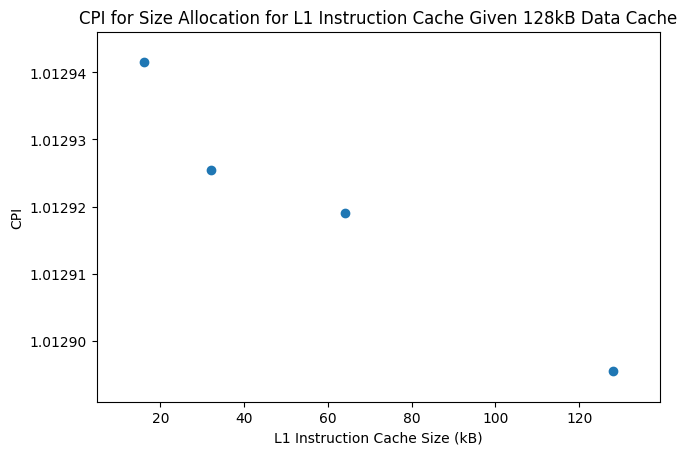
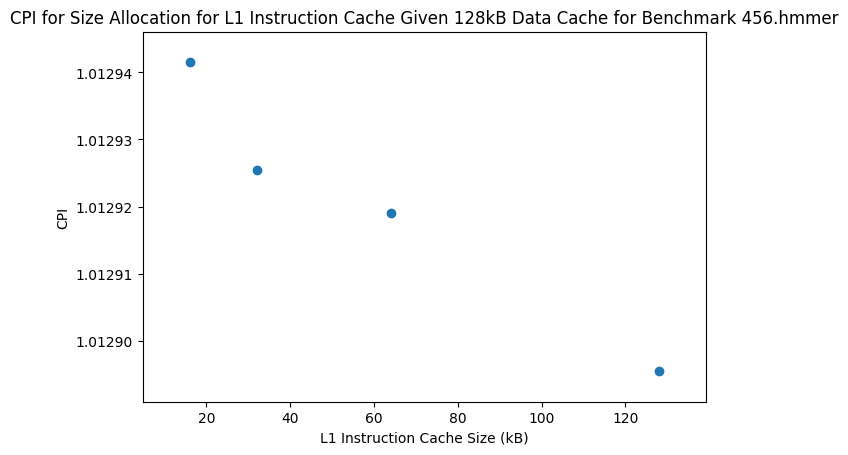
Added preliminary optimization function

diff --git a/Project 1/scripts/CPI_graph.py b/Project 1/scripts/CPI_graph.py
@@ -217,58 +217,58 @@ def generateGraphs(cpidata):
                     b470AllocDX.append(cpi.l1d_size)
 
     # Set Same
-    setSameTitle = "CPI for Set Associativity of both L1 Data and Instruction Caches"
+    setSameTitle = "CPI for Set Associativity of both L1 Data and Instruction Caches for Benchmark "
     setSameXAxis = "Set Associativity for L1 Data and Instruction Caches"
-    plot(b401SetSameX, b401SetSame, setSameTitle, setSameXAxis, "../graphs/401/401SameSetAlloc.png")
-    plot(b429SetSameX, b429SetSame, setSameTitle, setSameXAxis, "../graphs/429/429SameSetAlloc.png")
-    plot(b456SetSameX, b456SetSame, setSameTitle, setSameXAxis, "../graphs/456/456SameSetAlloc.png")
-    plot(b458SetSameX, b458SetSame, setSameTitle, setSameXAxis, "../graphs/458/458SameSetAlloc.png")
-    plot(b470SetSameX, b470SetSame, setSameTitle, setSameXAxis, "../graphs/470/470SameSetAlloc.png")
+    plot(b401SetSameX, b401SetSame, setSameTitle+"401.bzip2", setSameXAxis, "../graphs/401/401SameSetAlloc.png")
+    plot(b429SetSameX, b429SetSame, setSameTitle+"429.mcf", setSameXAxis, "../graphs/429/429SameSetAlloc.png")
+    plot(b456SetSameX, b456SetSame, setSameTitle+"456.hmmer", setSameXAxis, "../graphs/456/456SameSetAlloc.png")
+    plot(b458SetSameX, b458SetSame, setSameTitle+"458.sjeng", setSameXAxis, "../graphs/458/458SameSetAlloc.png")
+    plot(b470SetSameX, b470SetSame, setSameTitle+"470.lbm", setSameXAxis, "../graphs/470/470SameSetAlloc.png")
 
     # SetD
-    setDTitle = "CPI for Set Associativity of L1 Data Cache"
+    setDTitle = "CPI for Set Associativity of L1 Data Cache for Benchmark "
     setDXAxis = "Set Associativity for L1 Data Cache"
-    plot(b470SetDX, b470SetD, setDTitle, setDXAxis, "../graphs/470/470DataSetAlloc.png")
-    plot(b458SetDX, b458SetD, setDTitle, setDXAxis, "../graphs/458/458DataSetAlloc.png")
-    plot(b456SetDX, b456SetD, setDTitle, setDXAxis, "../graphs/456/456DataSetAlloc.png")
-    plot(b429SetDX, b429SetD, setDTitle, setDXAxis, "../graphs/429/429DataSetAlloc.png")
-    plot(b401SetDX, b401SetD, setDTitle, setDXAxis, "../graphs/401/401DataSetAlloc.png")
+    plot(b470SetDX, b470SetD, setDTitle+"470.lbm", setDXAxis, "../graphs/470/470DataSetAlloc.png")
+    plot(b458SetDX, b458SetD, setDTitle+"458.sjeng", setDXAxis, "../graphs/458/458DataSetAlloc.png")
+    plot(b456SetDX, b456SetD, setDTitle+"456.hmmer", setDXAxis, "../graphs/456/456DataSetAlloc.png")
+    plot(b429SetDX, b429SetD, setDTitle+"429.mcf", setDXAxis, "../graphs/429/429DataSetAlloc.png")
+    plot(b401SetDX, b401SetD, setDTitle+"401.bzip2", setDXAxis, "../graphs/401/401DataSetAlloc.png")
 
     # SetI
-    setITitle = "CPI for Set Associativity of L1 Instruction Cache"
+    setITitle = "CPI for Set Associativity of L1 Instruction Cache for Benchmark "
     setIXAxis = "Set Associativity for L1 Instruction Cache"
-    plot(b470SetIX, b470SetI, setITitle, setIXAxis, "../graphs/470/470InstructionSetAlloc.png")
-    plot(b458SetIX, b458SetI, setITitle, setIXAxis, "../graphs/458/458InstructionSetAlloc.png")
-    plot(b456SetIX, b456SetI, setITitle, setIXAxis, "../graphs/456/456InstructionSetAlloc.png")
-    plot(b429SetIX, b429SetI, setITitle, setIXAxis, "../graphs/429/429InstructionSetAlloc.png")
-    plot(b401SetIX, b401SetI, setITitle, setIXAxis, "../graphs/401/401InstructionSetAlloc.png")
+    plot(b470SetIX, b470SetI, setITitle+"470.lbm", setIXAxis, "../graphs/470/470InstructionSetAlloc.png")
+    plot(b458SetIX, b458SetI, setITitle+"458.sjeng", setIXAxis, "../graphs/458/458InstructionSetAlloc.png")
+    plot(b456SetIX, b456SetI, setITitle+"456.hmmer", setIXAxis, "../graphs/456/456InstructionSetAlloc.png")
+    plot(b429SetIX, b429SetI, setITitle+"429.mcf", setIXAxis, "../graphs/429/429InstructionSetAlloc.png")
+    plot(b401SetIX, b401SetI, setITitle+"401.bzip2", setIXAxis, "../graphs/401/401InstructionSetAlloc.png")
 
     # Block Size
-    setBlockTitle = "CPI for Block Size of both L1 Caches"
+    setBlockTitle = "CPI for Block Size of both L1 Caches for Benchmark "
     setBlockXAxis = "Cache Block Size"
-    plot(b401BlockX, b401Block, setBlockTitle, setBlockXAxis, "../graphs/401/401BlockSize.png")
-    plot(b429BlockX, b429Block, setBlockTitle, setBlockXAxis, "../graphs/429/429BlockSize.png")
-    plot(b456BlockX, b456Block, setBlockTitle, setBlockXAxis, "../graphs/456/456BlockSize.png")
-    plot(b458BlockX, b458Block, setBlockTitle, setBlockXAxis, "../graphs/458/458BlockSize.png")
-    plot(b470BlockX, b470Block, setBlockTitle, setBlockXAxis, "../graphs/470/470BlockSize.png")
+    plot(b401BlockX, b401Block, setBlockTitle+"401.bzip2", setBlockXAxis, "../graphs/401/401BlockSize.png")
+    plot(b429BlockX, b429Block, setBlockTitle+"429.mcf", setBlockXAxis, "../graphs/429/429BlockSize.png")
+    plot(b456BlockX, b456Block, setBlockTitle+"456.hmmer", setBlockXAxis, "../graphs/456/456BlockSize.png")
+    plot(b458BlockX, b458Block, setBlockTitle+"458.sjeng", setBlockXAxis, "../graphs/458/458BlockSize.png")
+    plot(b470BlockX, b470Block, setBlockTitle+"470.lbm", setBlockXAxis, "../graphs/470/470BlockSize.png")
 
     # Size Allocation Data
-    setSizeDataTitle = "CPI for Size Allocation for L1 Data Cache Given 128kB Instruction Cache"
+    setSizeDataTitle = "CPI for Size Allocation for L1 Data Cache Given 128kB Instruction Cache for Benchmark "
     setSizeDataXAxis = "L1 Data Cache Size (kB)"
-    plot(b470AllocDX, b470AllocD, setSizeDataTitle, setSizeDataXAxis, "../graphs/470/470DataSizeAllocation.png")
-    plot(b458AllocDX, b458AllocD, setSizeDataTitle, setSizeDataXAxis, "../graphs/458/458DataSizeAllocation.png")
-    plot(b456AllocDX, b456AllocD, setSizeDataTitle, setSizeDataXAxis, "../graphs/456/456DataSizeAllocation.png")
-    plot(b429AllocDX, b429AllocD, setSizeDataTitle, setSizeDataXAxis, "../graphs/429/429DataSizeAllocation.png")
-    plot(b401AllocDX, b401AllocD, setSizeDataTitle, setSizeDataXAxis, "../graphs/401/401DataSizeAllocation.png")
+    plot(b470AllocDX, b470AllocD, setSizeDataTitle+"470.lbm", setSizeDataXAxis, "../graphs/470/470DataSizeAllocation.png")
+    plot(b458AllocDX, b458AllocD, setSizeDataTitle+"458.sjeng", setSizeDataXAxis, "../graphs/458/458DataSizeAllocation.png")
+    plot(b456AllocDX, b456AllocD, setSizeDataTitle+"456.hmmer", setSizeDataXAxis, "../graphs/456/456DataSizeAllocation.png")
+    plot(b429AllocDX, b429AllocD, setSizeDataTitle+"429.mcf", setSizeDataXAxis, "../graphs/429/429DataSizeAllocation.png")
+    plot(b401AllocDX, b401AllocD, setSizeDataTitle+"401.bzip2", setSizeDataXAxis, "../graphs/401/401DataSizeAllocation.png")
 
     # Size Allocation Instruction
-    setSizeInstructionTitle = "CPI for Size Allocation for L1 Instruction Cache Given 128kB Data Cache"
+    setSizeInstructionTitle = "CPI for Size Allocation for L1 Instruction Cache Given 128kB Data Cache for Benchmark "
     setSizeInstructionXAxis = "L1 Instruction Cache Size (kB)"
-    plot(b470AllocIX, b470AllocI, setSizeInstructionTitle, setSizeInstructionXAxis, "../graphs/470/470InstructionSizeAllocation.png")
-    plot(b458AllocIX, b458AllocI, setSizeInstructionTitle, setSizeInstructionXAxis, "../graphs/458/458InstructionSizeAllocation.png")
-    plot(b456AllocIX, b456AllocI, setSizeInstructionTitle, setSizeInstructionXAxis, "../graphs/456/456InstructionSizeAllocation.png")
-    plot(b429AllocIX, b429AllocI, setSizeInstructionTitle, setSizeInstructionXAxis, "../graphs/429/429InstructionSizeAllocation.png")
-    plot(b401AllocIX, b401AllocI, setSizeInstructionTitle, setSizeInstructionXAxis, "../graphs/401/401InstructionSizeAllocation.png")
+    plot(b470AllocIX, b470AllocI, setSizeInstructionTitle+"470.lbm", setSizeInstructionXAxis, "../graphs/470/470InstructionSizeAllocation.png")
+    plot(b458AllocIX, b458AllocI, setSizeInstructionTitle+"458.sjeng", setSizeInstructionXAxis, "../graphs/458/458InstructionSizeAllocation.png")
+    plot(b456AllocIX, b456AllocI, setSizeInstructionTitle+"456.hmmer", setSizeInstructionXAxis, "../graphs/456/456InstructionSizeAllocation.png")
+    plot(b429AllocIX, b429AllocI, setSizeInstructionTitle+"429.mcf", setSizeInstructionXAxis, "../graphs/429/429InstructionSizeAllocation.png")
+    plot(b401AllocIX, b401AllocI, setSizeInstructionTitle+"401.bzip2", setSizeInstructionXAxis, "../graphs/401/401InstructionSizeAllocation.png")
 
 
 

diff --git a/Project 1/scripts/optimizeCPICost.py b/Project 1/scripts/optimizeCPICost.py
@@ -1,0 +1,99 @@
+import subprocess
+import shlex
+import cpi
+import CPI_Read_In
+import csv
+
+def cost(cpi):
+    return 1
+
+def evaluate(list):
+    minimum = 10000000000
+    best = ""
+    for i in list:
+        tot = i.cpi * i.cost
+        if tot < minimum:
+            minimum = tot
+            best = i
+    return best
+
+def optimize(projectlocation):
+    #l1d_assoc=0, l1i_assoc=0, l2_assoc=0, size=0, l1d_size=0, l1i_size=0
+    l1d_assoc_options = ["1","2","4","8","16"]
+    l1i_assoc_options = ["1","2","4","8","16"]
+    size_options = ["8", "16", "32", "64"]
+    l1d_size_options = ["16kB", "32kB", "64kB", "128kB"]
+    l1i_size_options = ["16kB", "32kB", "64kB", "128kB"]
+    benchmark_data_options = [["401.bzip2","./data/input.program"],
+                              ["429.mcf","./data/inp.in"],
+                              ["456.hmmer", "./data/bombesin.hmm.new"],
+                              ["458.sjeng", "./data/test.txt"],
+                              ["470.lbm", "./data/lbm.in"]]
+    min401 = []
+    min429 = []
+    min456 = []
+    min458 = []
+    min470 = []
+    for benchmark in benchmark_data_options:
+        for l1d_assoc in l1d_assoc_options:
+            for l1i_assoc in l1i_assoc_options:
+                for size in size_options:
+                    for l1d_size in l1d_size_options:
+                        for l1i_size in l1i_size_options:
+                            commandtext = "/usr/local/gem5/build/X86/gem5.opt " \
+                                          "-d ~/m5out /usr/local/gem5/configs/example/se.py " \
+                                          "-I 100000000 " \
+                                          "-c ./src/benchmark " \
+                                          "-o " + benchmark[1] +" " \
+                                          "--cpu-type=atomic " \
+                                          "--caches --l2cache " \
+                                          "--l1d_size=" + l1d_size + " " \
+                                          "--l1i_size=" + l1i_size + " " \
+                                          "--l2_size=1MB " \
+                                          "--l1d_assoc=" + l1d_assoc + " " \
+                                          "--l1i_assoc=" + l1i_assoc + " " \
+                                          "--l2_assoc=1 " \
+                                          "--cacheline_size=" + size
+                            location = projectlocation + "/" + benchmark[0]
+                            #command = shlex.split(commandtext)
+                            subprocess.Popen(commandtext,cwd=location)
+                            cpival = cpi.calculatecpisingle("~/m5out/stats.txt")
+                            costval = cost(cpival)
+                            if benchmark[0] == "401.bzip2":
+                                min401.append(CPI_Read_In.CPIData(benchmark[0], "NA", cpival,
+                                                                  l1d_assoc=l1d_assoc, l1i_assoc=l1i_assoc, l2_assoc="1MB",
+                                                                  size=size, l1d_size=l1d_size, l1i_size=l1i_size, cost=costval))
+                            elif benchmark[0] == "429.mcf":
+                                min429.append(CPI_Read_In.CPIData(benchmark[0], "NA", cpival,
+                                                                  l1d_assoc=l1d_assoc, l1i_assoc=l1i_assoc, l2_assoc="1MB",
+                                                                  size=size, l1d_size=l1d_size, l1i_size=l1i_size, cost=costval))
+                            elif benchmark[0] == "456.hmmer":
+                                min456.append(CPI_Read_In.CPIData(benchmark[0], "NA", cpival,
+                                                                  l1d_assoc=l1d_assoc, l1i_assoc=l1i_assoc, l2_assoc="1MB",
+                                                                  size=size, l1d_size=l1d_size, l1i_size=l1i_size, cost=costval))
+                            elif benchmark[0] == "458.sjeng":
+                                min458.append(CPI_Read_In.CPIData(benchmark[0], "NA", cpival,
+                                                                  l1d_assoc=l1d_assoc, l1i_assoc=l1i_assoc, l2_assoc="1MB",
+                                                                  size=size, l1d_size=l1d_size, l1i_size=l1i_size, cost=costval))
+                            elif benchmark[0] == "470.lbm":
+                                min470.append(CPI_Read_In.CPIData(benchmark[0], "NA", cpival,
+                                                                  l1d_assoc=l1d_assoc, l1i_assoc=l1i_assoc, l2_assoc="1MB",
+                                                                  size=size, l1d_size=l1d_size, l1i_size=l1i_size, cost=costval))
+    with open('../data/optimization.csv', 'w', newline='') as file:
+        writer = csv.writer(file)
+        writer.writerow(["Benchmark", "Experiment", "CPI", "Data Associativity", "Instruction Associativity",
+                "L2 Associativity", "Block Size", "Data Size", "Instruction Size", "Cost"])
+        best = evaluate(min401)
+        writer.writerow(best.toArray())
+        best = evaluate(min429)
+        writer.writerow(best.toArray())
+        best = evaluate(min456)
+        writer.writerow(best.toArray())
+        best = evaluate(min458)
+        writer.writerow(best.toArray())
+        best = evaluate(min470)
+        writer.writerow(best.toArray())
+
+
+
+optimize("~/Project1_SPEC")

diff --git a/Project 1/scripts/cpi.py b/Project 1/scripts/cpi.py
@@ -1,52 +1,78 @@
 import os
 import csv
-data_directories = ["401Data", "429Data", "456Data", "458Data", "470Data"]
+def calculatecpimass():
+    data_directories = ["401Data", "429Data", "456Data", "458Data", "470Data"]
 
-# Fields of interest in data files
-DL1_MISS_NUM_SRT  = "system.cpu.dcache.overall_miss_rate::total"
-IL1_MISS_NUM_SRT = "system.cpu.icache.overall_miss_rate::total"
-L2_MISS_NUM_SRT = "system.l2.overall_misses::total"
-TOTAL_NUM_INST_SRT = "sim_insts"
+    # Fields of interest in data files
+    DL1_MISS_NUM_SRT  = "system.cpu.dcache.overall_miss_rate::total"
+    IL1_MISS_NUM_SRT = "system.cpu.icache.overall_miss_rate::total"
+    L2_MISS_NUM_SRT = "system.l2.overall_misses::total"
+    TOTAL_NUM_INST_SRT = "sim_insts"
 
-data_list = [["Directory", "File", "CPI"]]
-row_data = []
+    data_list = [["Directory", "File", "CPI"]]
+    row_data = []
 
-for dir in data_directories:
-    print("Start of" , dir)
-    dir_path = "../" + dir
-    print(dir_path)
-    dir_data_files = os.listdir(dir_path)
-    for data_file in dir_data_files:
-        print("Data for file" , data_file, "in directory", dir)
-        data_file_path = dir_path + '/' + data_file
-        with open(data_file_path, 'r') as file:        
-            data = file.read().splitlines()
-            for row in data:
-                if (len(row) == 0):
-                    continue          
-                sim_stats = row.split(maxsplit=2)
-                if(sim_stats[0] == IL1_MISS_NUM_SRT):
-                    print("IL1.miss_num:", sim_stats[1])
-                    il1_miss_num = float(sim_stats[1])
-                if(sim_stats[0] == DL1_MISS_NUM_SRT):
-                    print("DL1.miss_num:", sim_stats[1])
-                    dl1_numm_num = float(sim_stats[1])
-                if(sim_stats[0] == L2_MISS_NUM_SRT):
-                    print("L2.miss_num:", sim_stats[1])
-                    l2_miss_num = float(sim_stats[1])
-                if(sim_stats[0] == TOTAL_NUM_INST_SRT):
-                    print("Total_Inst_num:", sim_stats[1])
-                    total_num_inst = float(sim_stats[1])
-        cpi = 1 + ((il1_miss_num + dl1_numm_num) * 6 + l2_miss_num * 50) / total_num_inst
-        print("CPI:", cpi)
-        row_data.append(dir)
-        row_data.append(data_file)
-        row_data.append(cpi)
-        data_list.append(row_data)
-        row_data = []
-        print("\n")
-        
-with open('../data/cpi.csv', 'w', newline='') as file:
-    writer = csv.writer(file)
-    for list in data_list:
-        writer.writerow(list)
+    for dir in data_directories:
+        print("Start of" , dir)
+        dir_path = "../" + dir
+        print(dir_path)
+        dir_data_files = os.listdir(dir_path)
+        for data_file in dir_data_files:
+            print("Data for file" , data_file, "in directory", dir)
+            data_file_path = dir_path + '/' + data_file
+            with open(data_file_path, 'r') as file:
+                data = file.read().splitlines()
+                for row in data:
+                    if (len(row) == 0):
+                        continue
+                    sim_stats = row.split(maxsplit=2)
+                    if(sim_stats[0] == IL1_MISS_NUM_SRT):
+                        print("IL1.miss_num:", sim_stats[1])
+                        il1_miss_num = float(sim_stats[1])
+                    if(sim_stats[0] == DL1_MISS_NUM_SRT):
+                        print("DL1.miss_num:", sim_stats[1])
+                        dl1_numm_num = float(sim_stats[1])
+                    if(sim_stats[0] == L2_MISS_NUM_SRT):
+                        print("L2.miss_num:", sim_stats[1])
+                        l2_miss_num = float(sim_stats[1])
+                    if(sim_stats[0] == TOTAL_NUM_INST_SRT):
+                        print("Total_Inst_num:", sim_stats[1])
+                        total_num_inst = float(sim_stats[1])
+            cpi = 1 + ((il1_miss_num + dl1_numm_num) * 6 + l2_miss_num * 50) / total_num_inst
+            print("CPI:", cpi)
+            row_data.append(dir)
+            row_data.append(data_file)
+            row_data.append(cpi)
+            data_list.append(row_data)
+            row_data = []
+            print("\n")
+
+    with open('../data/cpi.csv', 'w', newline='') as file:
+        writer = csv.writer(file)
+        for list in data_list:
+            writer.writerow(list)
+    return data_list
+
+def calculatecpisingle(filename):
+    # Fields of interest in data files
+    DL1_MISS_NUM_SRT = "system.cpu.dcache.overall_miss_rate::total"
+    IL1_MISS_NUM_SRT = "system.cpu.icache.overall_miss_rate::total"
+    L2_MISS_NUM_SRT = "system.l2.overall_misses::total"
+    TOTAL_NUM_INST_SRT = "sim_insts"
+
+    with open(filename, 'r') as file:
+        data = file.read().splitlines()
+        for row in data:
+            if (len(row) == 0):
+                continue
+            sim_stats = row.split(maxsplit=2)
+            if (sim_stats[0] == IL1_MISS_NUM_SRT):
+                il1_miss_num = float(sim_stats[1])
+            if (sim_stats[0] == DL1_MISS_NUM_SRT):
+                dl1_numm_num = float(sim_stats[1])
+            if (sim_stats[0] == L2_MISS_NUM_SRT):
+                l2_miss_num = float(sim_stats[1])
+            if (sim_stats[0] == TOTAL_NUM_INST_SRT):
+                total_num_inst = float(sim_stats[1])
+    cpi = 1 + ((il1_miss_num + dl1_numm_num) * 6 + l2_miss_num * 50) / total_num_inst
+    return cpi

diff --git a/Project 1/scripts/CPI_Read_In.py b/Project 1/scripts/CPI_Read_In.py
@@ -6,7 +6,7 @@ Copyright and Licensing: GNU @ Alexis Tudor
 import csv
 
 class CPIData:
-    def __init__(self, benchmark, experimentName, cpi, l1d_assoc=0, l1i_assoc=0, l2_assoc=0, size=0, l1d_size=0, l1i_size=0):
+    def __init__(self, benchmark, experimentName, cpi, l1d_assoc=0, l1i_assoc=0, l2_assoc=0, size=0, l1d_size=0, l1i_size=0, cost=0):
         self.bm = benchmark
         self.exp = experimentName
         self.cpi = cpi
@@ -16,6 +16,11 @@ class CPIData:
         self.size = size
         self.l1d_size = l1d_size
         self.l1i_size = l1i_size
+        self.cost = cost
+
+    def toArray(self):
+        return [self.bm, self.exp, self.cpi, self.l1d_assoc, self.l1i_assoc,
+                self.l2_assoc, self.size, self.l1d_size, self.l1i_size, self.cost]
 
 def readCPI(filename):
     cpidata=[]
